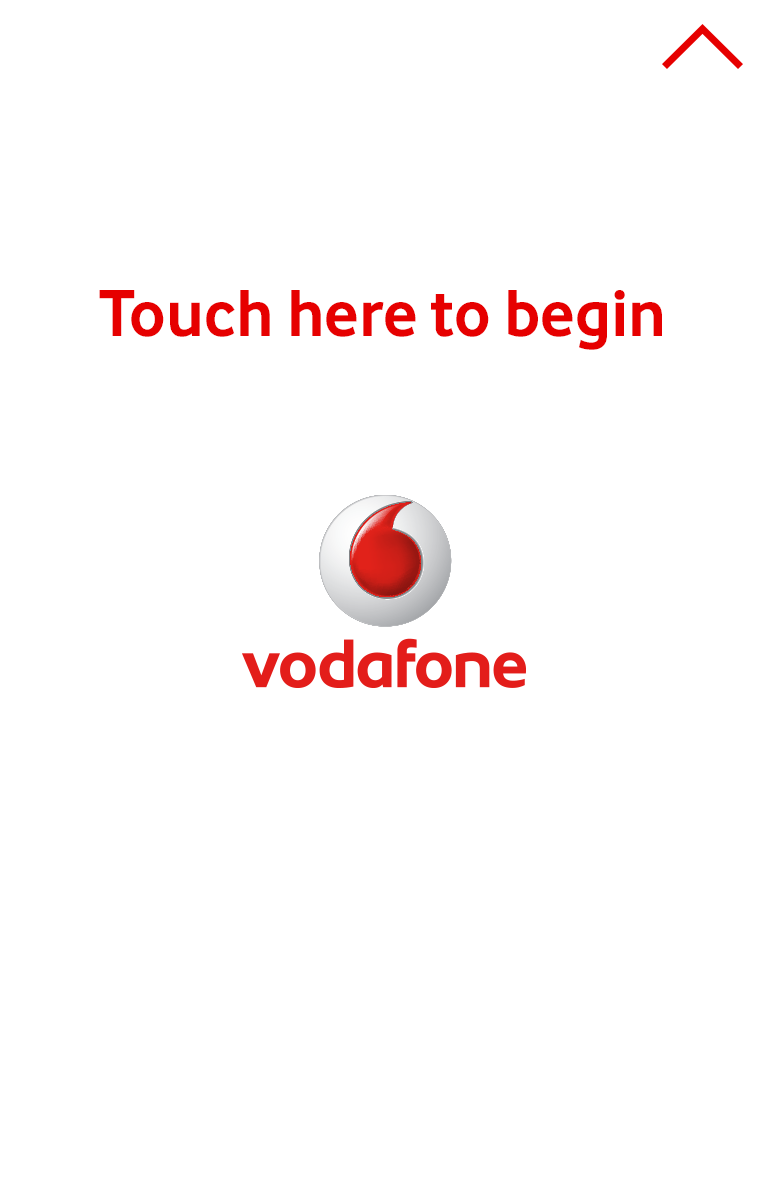
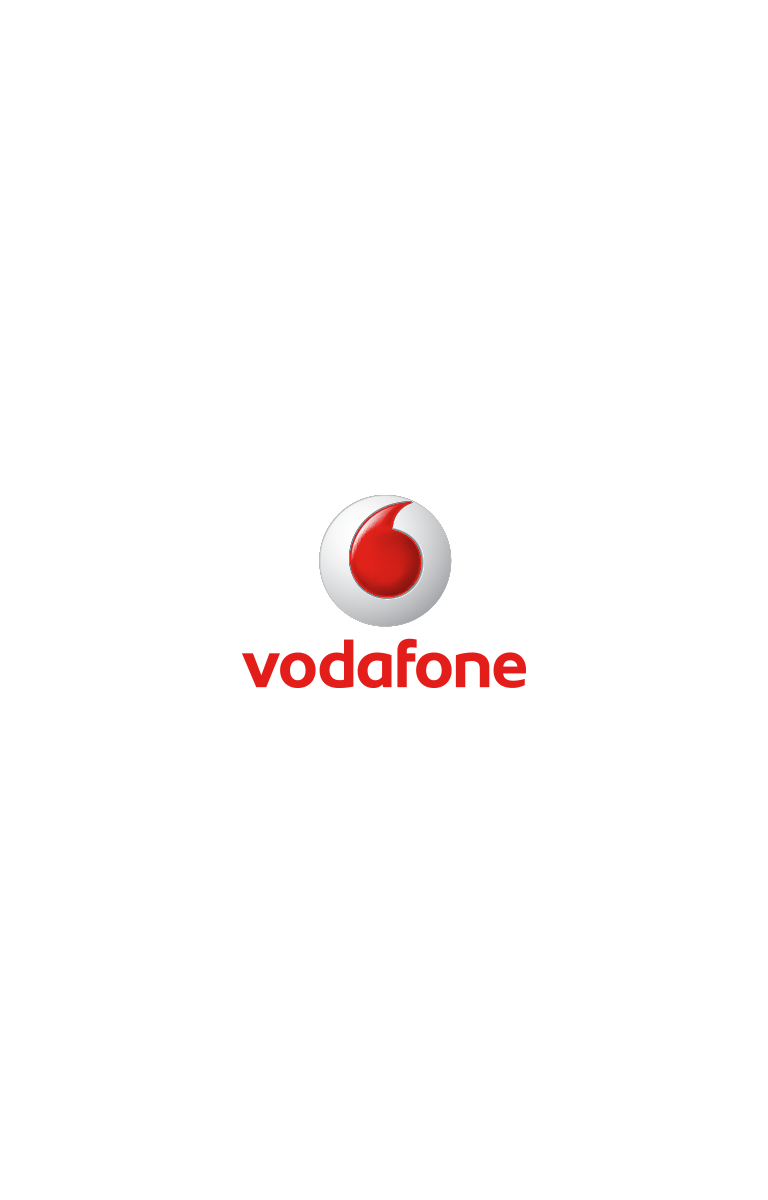
adding standalone support

Changed region(s): [[0.125, 0.2158, 0.875, 0.3083], [0.875, 0.0, 0.9688, 0.0617]]

diff --git a/admaxim/insurance/scripts/richMedia/exp_build.2.js b/admaxim/insurance/scripts/richMedia/exp_build.2.js
@@ -78,14 +78,14 @@ var Exp_Shell = function(){
 
 
 	var clickUrl = (ADMAXIM_clickUrl != undefined) ? ADMAXIM_clickUrl  : "";
-	var clickId = (ADMAXIM_clickId != undefined) ? ADMAXIM_clickId  : "";
 
+	var clickId = (ADMAXIM_clickId != undefined) ? ADMAXIM_clickId  : "";
 	var appId = (ADMAXIM_appId != undefined) ? ADMAXIM_appId : "";
 
 
-	var standalone = getUrlVar('standalone');
+	//var standalone = getUrlVar('standalone');
 
-	var expanded = (typeof standalone_from_url != "undefined" && standalone_from_url === "yes" || typeof standalone != "undefined" && standalone === "yes") ? true : false;
+	//var expanded = (typeof standalone_from_url != "undefined" && standalone_from_url === "yes" || typeof standalone != "undefined" && standalone === "yes") ? true : false;
 
 
 	function getUrlVar(key){
@@ -105,7 +105,7 @@ var Exp_Shell = function(){
 	}
 	if (console) console.log("assetUrl:" + assetUrl);
 
-	var iframeUrl = assetUrl + "scripts/richMedia/expanded.html?clickid=" + clickId + "&appid=" + appId + "&standalone=" + standalone;
+	var iframeUrl = assetUrl + "scripts/richMedia/expanded.html";
 
 
 	var adBanner = (ADMAXIM_adBanner != undefined) ? ADMAXIM_adBanner : LOCAL_BANNER_URL;
@@ -117,7 +117,7 @@ var Exp_Shell = function(){
 	var adLoaded = false;
 
 	var bannerStr = "";
-	if (!expanded) bannerStr += "<img id=\"adBanner\" onclick='exp_shell.bannerClick()' src=\""+adBanner+"\" style=\"display:block; width:"+adBannerW+"px; height:"+adBannerH+"px; \" \/>";
+	bannerStr += "<img id=\"adBanner\" onclick='exp_shell.bannerClick()' src=\""+adBanner+"\" style=\"display:block; width:"+adBannerW+"px; height:"+adBannerH+"px; \" \/>";
 	bannerStr += "<img id=\"AdMaximTrack\" style=\"display:block; margin:-1px 0 0 -1px; padding:0; width:1px; height:1px\" \/>";
 	var iframeStr = "<iframe id='adFrame' scrolling='no' src='' width='0' height='0' style='border:none; position:absolute; top:0; left:0;'></iframe>";
 	var expandedExp;
@@ -157,18 +157,16 @@ var Exp_Shell = function(){
 
 
 		
-		if (!expanded){
-			var closeBtn = document.createElement('div');
-			closeBtn.setAttribute('onclick', 'exp_shell.closeBtnClick()');
-			closeBtn.style.width = adBannerH + "px";
-			closeBtn.style.height = adBannerH + "px";
-			closeBtn.style.right = "0px";
-			closeBtn.style.top = "0px";
-			closeBtn.style.position = "absolute";
-			ex.appendChild(closeBtn);
-		} else {
-			expandExp();
-		}
+
+		var closeBtn = document.createElement('div');
+		closeBtn.setAttribute('onclick', 'exp_shell.closeBtnClick()');
+		closeBtn.style.width = adBannerH + "px";
+		closeBtn.style.height = adBannerH + "px";
+		closeBtn.style.right = "0px";
+		closeBtn.style.top = "0px";
+		closeBtn.style.position = "absolute";
+		ex.appendChild(closeBtn);
+
 
 
 	}

diff --git a/admaxim/insurance/scripts/richMedia/game.js b/admaxim/insurance/scripts/richMedia/game.js
@@ -6,7 +6,12 @@ var AM_Game = function(){
 	var ADMAXIM_GAME_WIDTH = 320;
 	var ADMAXIM_GAME_HEIGHT = 500;
 
-	var FINAL_URL = "http://m.vodafone.hu/mobiltarifak/red";
+	//var FINAL_URL = "http://m.vodafone.hu/mobiltarifak/red";
+	// CPM
+	var FINAL_URL = "http://huomdgde.hit.gemius.pl/hitredir/id=pzM1j7s6XZKBsTrsqNGWiKbjXoygPGNaC_sMchWJQdH.k7/fastid=lpksbnrketcqzjnnewkqlfrgnmma/stparam=rljmgmrfeh/url=http://m.vodafone.hu/aktualis-ajanlatok/valts/vodafone-red?ecmp=mob-aaaa0065aaaa0172-aaaa0144";
+	// CPC
+	//var FINAL_URL = "http://huomdgde.hit.gemius.pl/hitredir/id=pzM1j7s6XZKBsTrsqNGWiKbjXoygPGNaC_sMchWJQdH.k7/fastid=ntazyxifttpqqdmvfkftrrpfqfno/stparam=ninsixjtat/url=http://m.vodafone.hu/aktualis-ajanlatok/valts/vodafone-red?ecmp=mob-aaaa0065aaaa0172-aaaa0148";
+
 
 	var newScale = 2.4;
 	var oldScale = .417;
@@ -19,7 +24,7 @@ var AM_Game = function(){
 	var loadBar;
 	var loadBarHolder;
 	var gameHolder;	
-	var startBtn;
+	var startBtnContainer;
 
 	var moduleLoaded = false;
 	var crackHolder;
@@ -84,14 +89,34 @@ var AM_Game = function(){
 	}
 
 	function buildStartBtn(){
+
+		var startBtnContainer = new createjs.Container();
+
+		var action_txt_img = new Image();
+		action_txt_img.src = "media/game/txt_touch_here.png";
+        var action_txt_bmp = new createjs.Bitmap(action_txt_img);
+        imgLib["action_txt"] = action_txt_bmp;
+        imgLib["action_txt"].y = 283;
+        startBtnContainer.addChild(imgLib["action_txt"]);
+
+        if (!isStandalone){
+	        var close_btn_red_img = new Image();
+			close_btn_red_img.src = "media/game/close_btn_red.png";
+	        var close_btn_red_bmp = new createjs.Bitmap(close_btn_red_img);
+	        imgLib["close_btn_red"] = close_btn_red_bmp;
+	        imgLib["close_btn_red"].x = 661;
+	        startBtnContainer.addChild(imgLib["close_btn_red"]);
+    	}
+
 		var startGraphic = new createjs.Graphics();
 		startGraphic.beginFill('green');
 		startGraphic.drawRect(0, 0, 768, 1200);
-		startBtn = new createjs.Shape(startGraphic);
+		var startBtn = new createjs.Shape(startGraphic);
 		startBtn.alpha = 0.01;
 		startBtn.onPress = setUpGame;
-		stage.addChild(startBtn);
+		startBtnContainer.addChild(startBtn);
 		
+		stage.addChild(startBtnContainer);
 
 		createjs.Touch.enable(stage);
 
@@ -107,7 +132,7 @@ var AM_Game = function(){
 	
 	function setUpGame(e){
 		preloadAudio(e);
-		stage.removeChild(startBtn);
+		stage.removeChild(startBtnContainer);
 
 		admaxim_ad_experience.trackEvent('game_load_start');
 
@@ -273,7 +298,7 @@ var AM_Game = function(){
 
 		imgLib['close_btn_white'].x = 661;
 
-		gameHolder.addChild(imgLib['close_btn_white']);
+		if (!isStandalone) gameHolder.addChild(imgLib['close_btn_white']);
 
 
 

diff --git a/admaxim/insurance/scripts/richMedia/admaxim_ad_exp.js b/admaxim/insurance/scripts/richMedia/admaxim_ad_exp.js
@@ -1355,8 +1355,8 @@ var AdMaximAdExperience = function() {
 			var url = "http://track.admaxim.com/adtracker/track/app/event";
 			url += "?appId=" + admaxim_appid;
 			url += "&clickId=" + admaxim_clickid;
-			url += "&pageId=" + "PAGE_ID";
-			url += "&pageRId=" + "PAGE_R_ID";
+			url += "&pageId=" + "1";
+			url += "&pageRId=" + "1";
 			url += "&eventType=" + eventAction;
 			url += "&eventData=" + "EVENT_DATA";
 

diff --git a/admaxim/insurance/scripts/richMedia/data.js b/admaxim/insurance/scripts/richMedia/data.js
@@ -19,7 +19,7 @@ var admaxim_ad =
 				 	'title':'page1',
 				 	'track':'page_1_view',
 					'track2'	: ' ',
-				 	'background':'media/game/view_start_hg.png',
+				 	'background':'media/bg.png',
 					"html"   	:
 					[
 						{

diff --git a/mito/insurance/index.html b/mito/insurance/index.html
@@ -37,7 +37,8 @@
 		function getUrlVar(key){
 			var result = new RegExp(key + "=([^&]*)", "i").exec(window.location.search);
 			return (result && unescape(result[1]) || undefined);
-		}	
+		}
+		
 	</script>
 
 

diff --git a/admaxim/insurance/index.html b/admaxim/insurance/index.html
@@ -20,15 +20,6 @@
 
 
 
-
-
-
-
-
-
-
-
-
 	var LOCAL_BANNER_URL = "scripts/richMedia/media/vodafoneinsurancebanner.gif";
 
 
